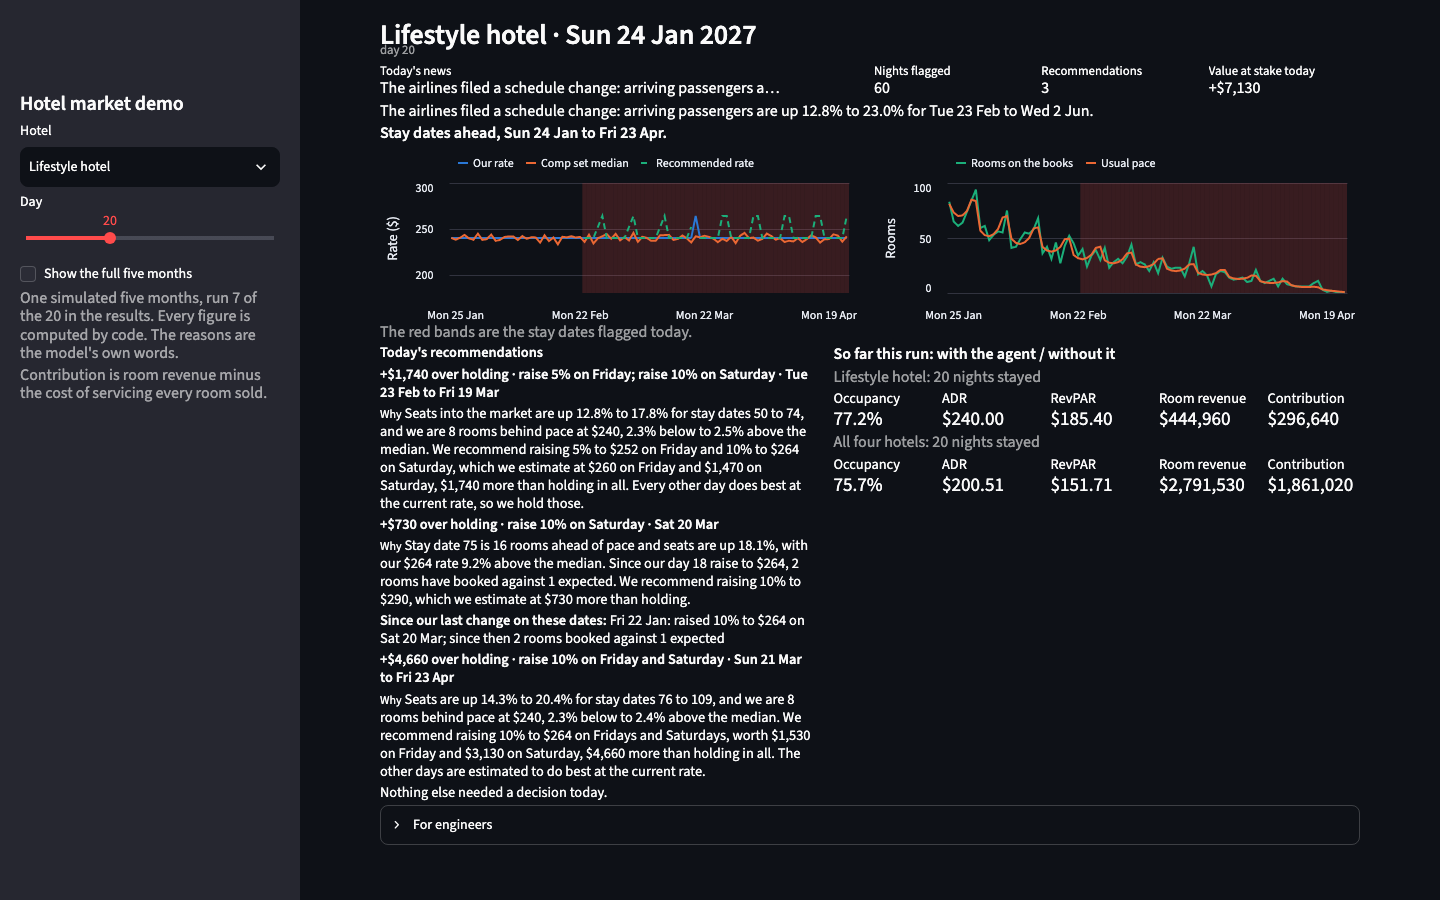
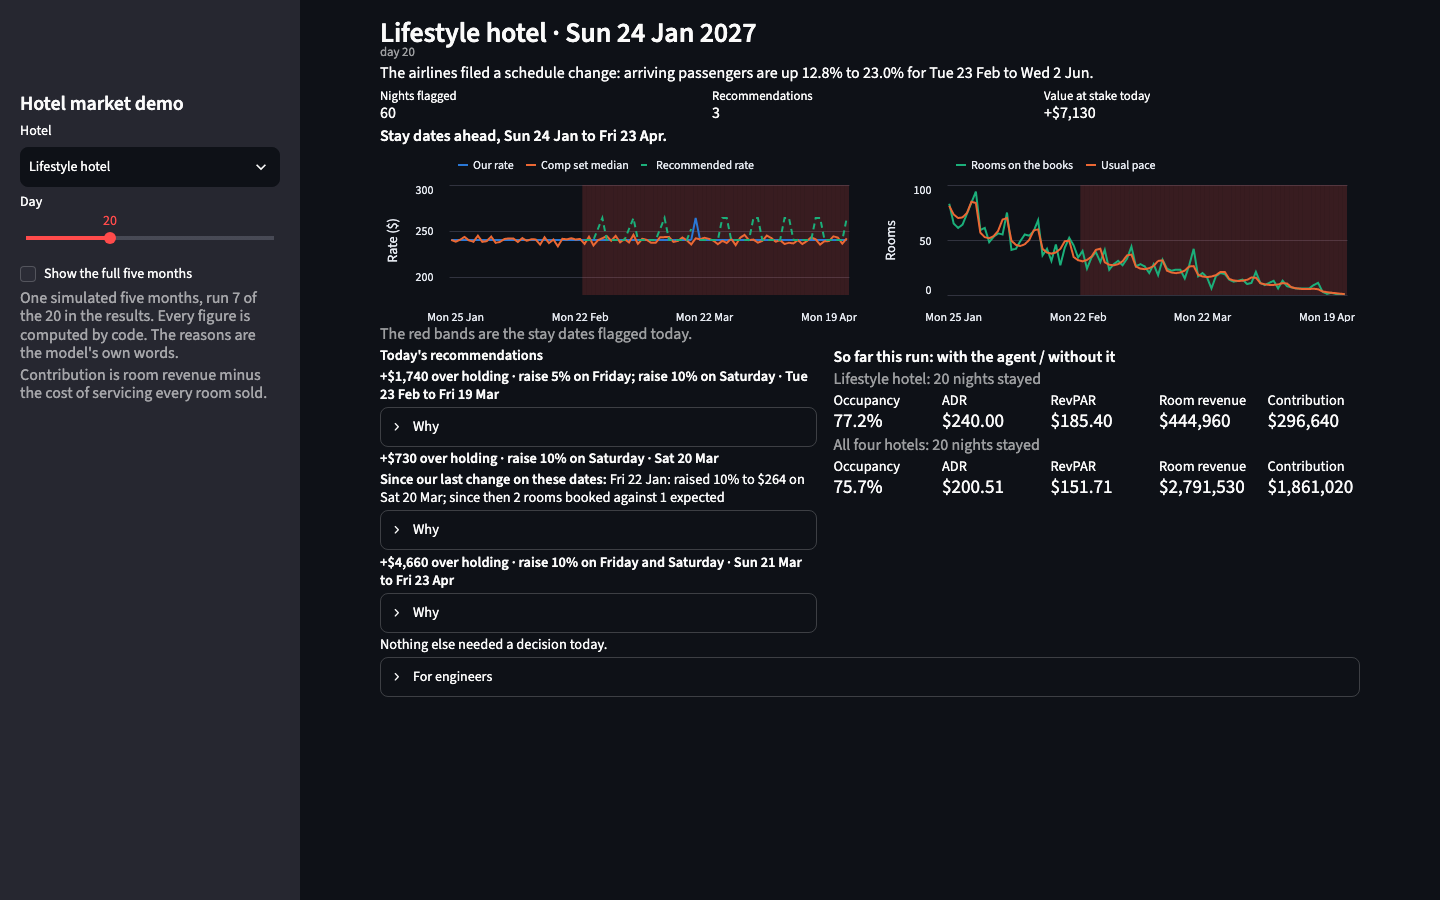
Close each reason under Why and print the day's news once
Each recommendation now reads as its headline, with the model's reason one
click away under Why, after the line that dates its stay numbers. The news
leads the page in full, and the strip keeps its three counts.

diff --git a/tests/test_demo_page.py b/tests/test_demo_page.py
@@ -24,9 +24,8 @@ AIRPORT_HEADLINE = (  # the plan's headline, its dollar sign escaped
     "**+\\$10,140 over holding · raise 5% on Tuesday and Friday; raise 10% on Monday, Wednesday, "
     "Thursday and Sunday · Tue 23 Feb to Fri 23 Apr**"
 )
-AIRPORT_WHY = (  # then the recorded run's reason, its dollar signs escaped
-    "<small>Why</small> "
-    + json.loads((ROOT / "tests" / "fixtures" / "live_seed7" / "day020_airport.json").read_text())[
+AIRPORT_REASON = (  # the recorded run's reason under Why, its dollar signs escaped
+    json.loads((ROOT / "tests" / "fixtures" / "live_seed7" / "day020_airport.json").read_text())[
         "decisions"
     ][0]["reason"].replace("$", "\\$")
 )
@@ -35,7 +34,8 @@ SIDEBAR = (  # the seed's place among the results' runs
     "The reasons are the model's own words."
 )
 STAND_IN = "Reasons marked * are the stand-in's, not the model's."
-STRIP = ["Today's news", "Nights flagged", "Recommendations", "Value at stake today"]
+STRIP = ["Nights flagged", "Recommendations", "Value at stake today"]
+AIRPORT_STAYS = "Stay dates 50 to 109 are Tue 23 Feb to Fri 23 Apr."  # its numbers, dated
 RED_BANDS = "The red bands are the stay dates flagged today."
 # The program's words, which only the engineers' expander may show. "flagged" is the exception,
 # in the strip's label and the charts' caption, so "flag" matches only as a word of its own.
@@ -130,9 +130,9 @@ def test_the_page_shows_the_airport_hotel_on_day_20(demo_file, monkeypatch):
     assert not page.exception
     assert page.subheader[0].value == "Airport hotel · Sun 24 Jan 2027"
     assert page.main.caption[0].value == "day 20"
-    # The strip under the title: the file's four tiles for the day, as stored.
-    assert [metric.label for metric in page.metric][:4] == STRIP
-    assert [metric.value for metric in page.metric][1:4] == ["60", "1", "+$10,140"]
+    # The strip under the news: the file's three tiles for the day, as stored.
+    assert [metric.label for metric in page.metric][:3] == STRIP
+    assert [metric.value for metric in page.metric][:3] == ["60", "1", "+$10,140"]
     text = _text(page)
     assert (
         "The airlines filed a schedule change: arriving passengers are up 12.8% to 23.0% for "
@@ -140,9 +140,15 @@ def test_the_page_shows_the_airport_hotel_on_day_20(demo_file, monkeypatch):
     ) in text
     assert "**Stay dates ahead, Sun 24 Jan to Fri 23 Apr.**" in text
     assert "**Today's recommendations**" in text and "Today's queue" not in text
-    assert AIRPORT_HEADLINE in text and AIRPORT_WHY in text
+    assert AIRPORT_HEADLINE in text
+    # The model's reason sits in a closed expander under its plan, after the stay dates'
+    # numbers as the request writes them, with their dates.
+    why = [expander for expander in page.expander if expander.label == "Why"]
+    assert len(why) == 1 and not why[0].proto.expanded
+    assert [caption.value for caption in why[0].caption] == [AIRPORT_STAYS]
+    assert [block.value for block in why[0].markdown] == [AIRPORT_REASON]
     assert "Nothing else needed a decision today." in text
-    assert [expander.label for expander in page.expander] == ["For engineers"]
+    assert [expander.label for expander in page.expander] == ["Why", "For engineers"]
     assert "Since our last change" not in text  # the airport's request listed no earlier change
     # The recommended rate is a dashed line in its own colour, with a legend entry.
     spec = _rate_chart_spec(page)
@@ -153,10 +159,11 @@ def test_the_page_shows_the_airport_hotel_on_day_20(demo_file, monkeypatch):
     # The scorecard: the nights already stayed for the hotel and for all four, each labelled;
     # five tiles each, and no chip on a change that rounds to nothing. The five months are off.
     stayed = ["Airport hotel: 20 nights stayed", "All four hotels: 20 nights stayed"]
-    assert [caption.value for caption in page.main.caption] == ["day 20", RED_BANDS, *stayed]
+    captions = ["day 20", RED_BANDS, AIRPORT_STAYS]
+    assert [caption.value for caption in page.main.caption] == [*captions, *stayed]
     labels = ["Occupancy", "ADR", "RevPAR", "Room revenue", "Contribution"]
     assert [metric.label for metric in page.metric] == STRIP + labels * 2
-    assert page.metric[5].value == "$140.00" and page.metric[5].delta == ""
+    assert page.metric[4].value == "$140.00" and page.metric[4].delta == ""
     assert not page.sidebar.checkbox[0].value and len(page.get("vega_lite_chart")) == 2
     # The sidebar says which run of the results this is, and defines contribution.
     assert [caption.value for caption in page.sidebar.caption] == [
@@ -170,8 +177,7 @@ def test_the_page_shows_the_airport_hotel_on_day_20(demo_file, monkeypatch):
     assert not page.exception
     complete = "All five months: 150 nights"
     assert [caption.value for caption in page.main.caption] == [
-        "day 20",
-        RED_BANDS,
+        *captions,
         stayed[0],
         complete,
         stayed[1],
@@ -179,8 +185,8 @@ def test_the_page_shows_the_airport_hotel_on_day_20(demo_file, monkeypatch):
         "Contribution difference by stay date, once every stay date is complete",
     ]
     assert [metric.label for metric in page.metric] == STRIP + labels * 4
-    assert page.metric[13].value == "$1,879,045" and page.metric[13].delta == "+$6,125"
-    assert page.metric[23].value == "$14,505,130" and page.metric[23].delta == "+$19,796"
+    assert page.metric[12].value == "$1,879,045" and page.metric[12].delta == "+$6,125"
+    assert page.metric[22].value == "$14,505,130" and page.metric[22].delta == "+$19,796"
     assert len(page.get("vega_lite_chart")) == 3
 
 
@@ -191,7 +197,7 @@ def test_the_query_string_opens_a_hotel_and_a_day_and_the_held_flags_are_open(
     page = _page(testing, monkeypatch, demo_file, "full-service", 30, end=True)
     assert page.subheader[0].value == "Downtown full-service hotel · Wed 3 Feb 2027"
     assert page.sidebar.slider[0].value == 30
-    assert page.sidebar.checkbox[0].value and len(page.metric) == 4 + 20  # ?end=1 turns it on
+    assert page.sidebar.checkbox[0].value and len(page.metric) == 3 + 20  # ?end=1 turns it on
     text = _text(page)
     assert "No recommendation today." in text
     # The flags held by code sit in an expander, closed until the reader opens it.
@@ -206,16 +212,20 @@ def test_the_query_string_opens_a_hotel_and_a_day_and_the_held_flags_are_open(
     # A day with no night stayed, and a query string the file does not know.
     page = _page(testing, monkeypatch, demo_file, "airport", 0)
     assert "Airport hotel: no nights stayed yet" in [caption.value for caption in page.main.caption]
-    assert len(page.metric) == 4 and not page.sidebar.checkbox[0].value  # the strip alone
-    assert [metric.value for metric in page.metric] == ["Nothing new", "0", "0", "$0"]
+    assert len(page.metric) == 3 and not page.sidebar.checkbox[0].value  # the strip alone
+    assert [metric.value for metric in page.metric] == ["0", "0", "$0"]
+    assert "Nothing new became known today." in _text(page)  # the file's own line for the day
     page = _page(testing, monkeypatch, demo_file, "nowhere", 999)
     assert page.subheader[0].value == "Downtown convention hotel · Mon 4 Jan 2027"
 
 
-def test_the_decision_panel_shows_the_stored_requests_earlier_change_last(demo_file, monkeypatch):
-    """The lifestyle hotel's day-20 page: the plan for stay date 75 ends with the earlier change
+def test_the_decision_panel_shows_the_stored_requests_earlier_change_under_its_headline(
+    demo_file, monkeypatch
+):
+    """The lifestyle hotel's day-20 page: under the plan for stay date 75 comes the earlier change
     the stored request listed, under its label and with dates for the request's day numbers, the
-    dollar sign escaped; nothing else on the page carries the label."""
+    dollar sign escaped; nothing else on the page carries the label. Each plan's reason then sits
+    in a closed expander, after the request's numbers for its stay dates with their dates."""
     testing = pytest.importorskip("streamlit.testing.v1")
     page = _page(testing, monkeypatch, demo_file, "lifestyle", 20)
     blocks = [block.value for block in page.markdown]
@@ -225,9 +235,12 @@ def test_the_decision_panel_shows_the_stored_requests_earlier_change_last(demo_f
     )
     assert blocks.count(label) == 1 and sum("Since our last change" in b for b in blocks) == 1
     at = blocks.index(label)
-    assert blocks[at - 2] == "**+\\$730 over holding · raise 10% on Saturday · Sat 20 Mar**"
-    assert blocks[at - 1].startswith("<small>Why</small> Stay date 75 is")
-    assert at + 1 == len(blocks) or not blocks[at + 1].startswith("**Since")
+    assert blocks[at - 1] == "**+\\$730 over holding · raise 10% on Saturday · Sat 20 Mar**"
+    why = [expander for expander in page.expander if expander.label == "Why"]
+    assert len(why) == 3 and not any(expander.proto.expanded for expander in why)
+    assert why[1].caption[0].value == "Stay date 75 is Sat 20 Mar."
+    assert why[1].markdown[0].value.startswith("Stay date 75 is")
+    assert blocks[at + 1] == why[1].markdown[0].value  # the reason follows the earlier change
 
 
 def test_a_reason_with_two_dollar_amounts_shows_both_as_written(demo_file, monkeypatch, tmp_path):
@@ -248,7 +261,7 @@ def test_a_reason_with_two_dollar_amounts_shows_both_as_written(demo_file, monke
         connection.close()
     page = _page(testing, monkeypatch, file, "airport", 20)
     text = _text(page)
-    assert "<small>Why</small> A \\$120 raise earns \\$1,000 more than holding." in text
+    assert "A \\$120 raise earns \\$1,000 more than holding." in text
     assert "$120 raise earns $1,000" not in text
     assert (
         "See \\[the plan\\](http://example.com), \\~\\~hold\\~\\~ and \\<http://example.com\\>."
@@ -282,7 +295,7 @@ def test_at_four_ticks_the_day_20_page_names_the_times_of_day_in_the_news_and_th
         "Contribution is room revenue minus the cost of servicing every room sold.",
     ]
     page = _page(testing, monkeypatch, file, hotel="airport", day=20, tick=3)
-    reasons = [block.value for block in page.markdown if block.value.startswith("<small>Why")]
+    reasons = [block.value for e in page.expander if e.label == "Why" for block in e.markdown]
     assert reasons and all(reason.endswith(" *") for reason in reasons)
 
 
@@ -343,4 +356,4 @@ def test_the_engineers_expander_is_the_only_place_the_programs_words_appear(demo
         assert inside[:2] == ["Seed 7. Day 20.", "Market file: demo"]
         assert inside[-1] == "This page reads a file demo\\_data.py wrote and computes nothing."
         digests = [line for line in inside if line.startswith("Request digest: ")]
-        assert len(digests) == len([b for b in page.markdown if b.value.startswith("<small>Why")])
+        assert len(digests) == len([e for e in page.expander if e.label == "Why"])

diff --git a/src/hotel_market/demo_page.py b/src/hotel_market/demo_page.py
@@ -9,14 +9,16 @@ The page reads the file and computes nothing. Every figure it shows is a row cod
 imports anything from the package or does arithmetic on a figure. The sidebar picks one hotel and
 one day, and the query string can name them (?hotel=convention&day=10). The sidebar also says
 which of the results' runs this is, marks the stand-in's reasons when the file holds any, and
-defines contribution. Under the title and the day's number, four tiles give the day's first news,
-the nights flagged, the recommendations and their value at stake together. The page then shows
-what became known that day, the stay dates ahead as two charts side by side, the day's
-recommendations, each led by its value at stake with its reason under it, and the scorecard: the
-nights already stayed for the hotel and for all the hotels together. Where the stored request
-listed the hotel's earlier changes on a plan's stay dates, the plan's last line shows them under
-"Since our last change on these dates", with dates for the request's day numbers. The flags held
-by code sit in a closed expander. A sidebar checkbox, off by default, adds the full five months:
+defines contribution. Under the title and the day's number come what became known that day and
+three tiles: the nights flagged, the recommendations and their value at stake together. The page
+then shows the stay dates ahead as two charts side by side, the day's recommendations and the
+scorecard: the nights already stayed for the hotel and for all the hotels together. Each
+recommendation is one line led by its value at stake. Where the stored request listed the
+hotel's earlier changes on a plan's stay dates, the next line shows them under "Since our last
+change on these dates", with dates for the request's day numbers. The model's reason sits in a
+closed expander under the plan, after a line that dates the request's numbers for its stay
+dates, so the day reads first and the reason is one click away. The flags held by code sit in a
+closed expander. A sidebar checkbox, off by default, adds the full five months:
 the tiles once every stay date is complete and the contribution difference by stay date. The
 query string can turn it on (&end=1). When the file was written on a finer clock, a time-of-day
 slider under the day slider picks a tick of the day (&tick=2), the day's last by default, and the
@@ -63,7 +65,7 @@ STYLE = """<style>
 [data-testid="stHeader"] {height: 2rem !important; background: transparent !important;}
 .block-container {padding-top: 0.75rem; padding-bottom: 0.25rem;}
 [data-testid="stVerticalBlock"] {gap: 0.2rem;}
-h3 {padding-top: 0 !important; padding-bottom: 0.25rem !important;}
+h3 {padding-top: 0 !important; padding-bottom: 0.25rem !important; line-height: 1.05 !important;}
 [data-testid="stMarkdownContainer"] p:has(> strong:only-child) {line-height: 1.25;}
 [data-testid="stMetric"] {padding: 0;}
 [data-testid="stMetricLabel"] {line-height: 1.1; min-height: 0;}
@@ -77,6 +79,7 @@ h3 {padding-top: 0 !important; padding-bottom: 0.25rem !important;}
 [data-testid="stExpander"] details summary {padding: 0.1rem 0.5rem;}
 .st-key-queue p {font-size: 0.9rem; line-height: 1.25;}
 .st-key-news p {line-height: 1.2;}
+.st-key-index {margin-top: 0.4rem;}
 .st-key-index p {font-size: 0.8rem; line-height: 1.1;}
 .st-key-strip [data-testid="stMetricLabel"] p {font-size: 0.8rem;}
 .st-key-strip [data-testid="stMetricValue"] {font-size: 1rem;}
@@ -257,20 +260,6 @@ def main() -> None:
     st.subheader(f"{name} · {today['label']}{clock}")
     with st.container(key="index"):  # the key names the day's number for STYLE's small text
         st.caption(today["index"])
-    strip = rows(
-        "SELECT news, nights_flagged, recommendations, value_at_stake FROM strip "
-        "WHERE as_of_day = ? AND hotel = ? AND as_of_tick = ?",
-        day,
-        key,
-        tick,
-    ).iloc[0]
-    with st.container(key="strip"):  # the key names the strip for STYLE
-        tiles = st.columns([3, 1, 1, 1])  # the news tile wide enough for its 60 characters
-        first = strip["news"] if len(strip["news"]) <= 60 else f"{strip['news'][:59]}…"
-        tiles[0].metric("Today's news", first)
-        tiles[1].metric("Nights flagged", strip["nights_flagged"])
-        tiles[2].metric("Recommendations", strip["recommendations"])
-        tiles[3].metric("Value at stake today", strip["value_at_stake"])
     news = rows(
         "SELECT text FROM news WHERE as_of_day = ? AND hotel = ? AND as_of_tick <= ? "
         "ORDER BY as_of_tick, position",
@@ -280,6 +269,18 @@ def main() -> None:
     )
     with st.container(key="news"):  # the key names the news for STYLE's tighter lines
         st.markdown("  \n".join(plain(text) for text in news["text"].tolist()) or NOTHING_YET)
+    strip = rows(
+        "SELECT nights_flagged, recommendations, value_at_stake FROM strip "
+        "WHERE as_of_day = ? AND hotel = ? AND as_of_tick = ?",
+        day,
+        key,
+        tick,
+    ).iloc[0]
+    with st.container(key="strip"):  # the key names the strip for STYLE
+        tiles = st.columns(3)
+        tiles[0].metric("Nights flagged", strip["nights_flagged"])
+        tiles[1].metric("Recommendations", strip["recommendations"])
+        tiles[2].metric("Value at stake today", strip["value_at_stake"])
 
     # ---- the stay dates ahead -------------------------------------------------------------------
     stays = rows(
@@ -367,7 +368,8 @@ def main() -> None:
     # ---- today's recommendations and the scorecard, side by side ------------------------------
     queue = rows(
         "SELECT stays, causes, reason, reason_source, outcome, queued, alternative, "
-        "alternative_text, since_last_change_text, headline, request_digest FROM queue "
+        "alternative_text, since_last_change_text, headline, request_digest, stay_numbers_text "
+        "FROM queue "
         "WHERE as_of_day = ? AND hotel = ? AND as_of_tick = ? ORDER BY position",
         day,
         key,
@@ -384,15 +386,14 @@ def main() -> None:
             held_by_model = "Held: " if plan.outcome == "declined" else ""
             star = " *" if plan.reason_source == "template" else ""
             st.markdown(f"**{held_by_model}{plain(plan.headline)}**")
-            st.markdown(
-                f"<small>Why</small> {plain(plan.reason, REASON_MARKS)}{star}",
-                unsafe_allow_html=True,
-            )
             if plan.since_last_change_text:  # the stored request's own line, with dates
                 st.markdown(
                     f"**Since our last change on these dates:** "
                     f"{plain(plan.since_last_change_text)}"
                 )
+            with st.expander("Why", expanded=False):  # the model's words, one click away
+                st.caption(plain(plan.stay_numbers_text))
+                st.markdown(f"{plain(plan.reason, REASON_MARKS)}{star}")
         if held.empty:
             st.markdown("Nothing else needed a decision today.")
         else:

diff --git a/tests/test_demo_screenshots.py b/tests/test_demo_screenshots.py
@@ -79,7 +79,7 @@ def test_every_checked_page_fits_the_window_and_six_are_saved(screenshots, demo_
             assert path is None
         # The strip's four tiles, then five a row of the scorecard: two rows, or four with the
         # five months on.
-        assert measured["window"] == 900 and measured["metrics"] == (24 if state == "on" else 14)
+        assert measured["window"] == 900 and measured["metrics"] == (23 if state == "on" else 13)
         assert not screenshots.too_tall(measured), (hotel, day, state, measured)
     assert sorted(file.name for file in (tmp_path / "shots").iterdir()) == [
         "airport-day20-end.png",
@@ -125,6 +125,6 @@ def test_the_intraday_pages_fit_the_window_at_every_tick_and_nothing_is_saved(
     ]
     for hotel, day, tick, state, measured, path in results:
         assert (hotel, day) == ("lifestyle", 25) and path is None
-        assert measured["window"] == 900 and measured["metrics"] == (24 if state == "on" else 14)
+        assert measured["window"] == 900 and measured["metrics"] == (23 if state == "on" else 13)
         assert not screenshots.too_tall(measured), (tick, state, measured)
     assert [file.name for file in (tmp_path / "shots").iterdir()] == [screenshots.SERVER_LOG]

diff --git a/kg/modules.md b/kg/modules.md
@@ -259,9 +259,9 @@ which is also the order in which they depend on each other.
 
 ### MOD-27 [C] demo_page.py
 - File: src/hotel_market/demo_page.py
-- Owns: the read-only demo page ([[DEC-57]], [[DEC-58]]) over [[DAT-33]]. On a finer clock, the sidebar picks a time of day ([[RUL-133]], [[RUL-134]]). A strip of four tiles opens the page. An engineers' expander closes it.
+- Owns: the read-only demo page ([[DEC-57]], [[DEC-58]]) over [[DAT-33]]. On a finer clock, the sidebar picks a time of day ([[RUL-133]], [[RUL-134]]). The news opens the page, then a strip of three tiles. An engineers' expander closes it.
 - Charts: one chart shows our rate, the comp set median and the recommended rate, dashed aqua. The other shows the rooms on the books against the usual pace. The recommended rate joins the legend only with an accepted plan.
-- Queue: each recommendation leads with the money, and its reason follows. The stored request's earlier changes follow with dates. The held flags sit closed. Its text is a size smaller, so three plans fit.
+- Queue: each recommendation is one line that leads with the money. The stored request's earlier changes follow with dates. Its reason sits closed under Why. The held flags sit closed.
 - Scorecard: the nights already stayed for the hotel and for all together, as five large tiles each. With the checkbox on, the five months' tiles follow each, in a compact size, then the small line. A zero change has no chip.
 - Holds: the file, parameter, plot, tile, colour and mark constants, FILE_VARIABLE to REASON_MARKS ([[RUL-105]], [[RUL-106]], [[RUL-112]] to [[RUL-123]], [[RUL-133]], [[RUL-134]]), and STYLE.
 - Reads: nothing in the package; streamlit, altair and duckdb only, the optional extra demo. The page computes nothing, and a test parses it for an arithmetic operator or an aggregate call. Tests: tests/test_demo_page.py.

diff --git a/README.md b/README.md
@@ -22,8 +22,8 @@ repository has no Cirium data and no affiliation with Cirium.
 ![The lifestyle hotel on day 20](docs/images/day20.png)
 
 *Day 20 at the lifestyle hotel: the filing in the news, three recommendations
-with the model's reasons, and what happened since the last change on those
-dates.*
+with the model's reasons closed under Why, and what happened since the last
+change on those dates.*
 
 ## Run it
 
@@ -188,7 +188,7 @@ the same thresholds on both markets. The difference is the news.
 ![The lifestyle hotel on day 25 at 11:00](docs/images/day25.png)
 
 *Day 25 at the lifestyle hotel, 11:00: the concert just announced, the
-recommendation, and the model's reason.*
+recommendation, and the model's reason opened under Why.*
 
 Details: [the clock](docs/results.md#the-clock-one-tick-a-day-against-four),
 [the clock with intraday news](docs/results.md#the-clock-on-the-world-with-intraday-news).

diff --git a/kg/index.md b/kg/index.md
@@ -8,7 +8,7 @@ nodes and its words, len(text.split()) over the file.
 
 | File | Nodes | Words |
 | --- | ---: | ---: |
-| modules.md | 32 | 4,502 |
+| modules.md | 32 | 4,501 |
 | data.md | 33 | 4,691 |
 | rules.md | 134 | 5,863 |
 | shocks.md | 9 | 1,033 |
@@ -19,7 +19,7 @@ nodes and its words, len(text.split()) over the file.
 | results.md | 45 | 7,681 |
 | forks.md | 14 | 2,037 |
 | unknowns.md | 16 | 2,172 |
-| every node file | 384 | 41,768 |
+| every node file | 384 | 41,767 |
 | index.md | | 2,999 |
 
 ## Modules (`modules.md`)
